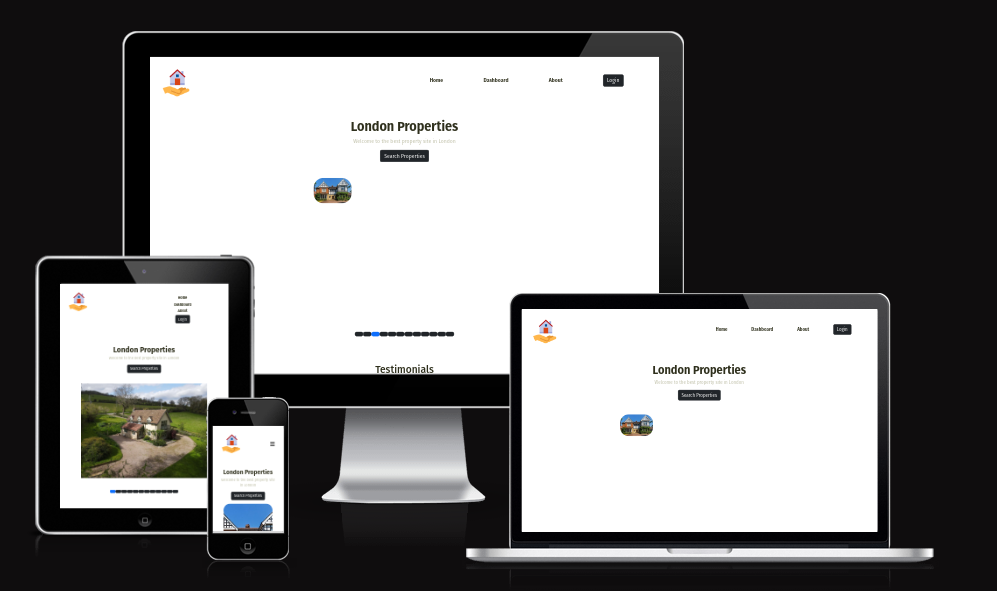
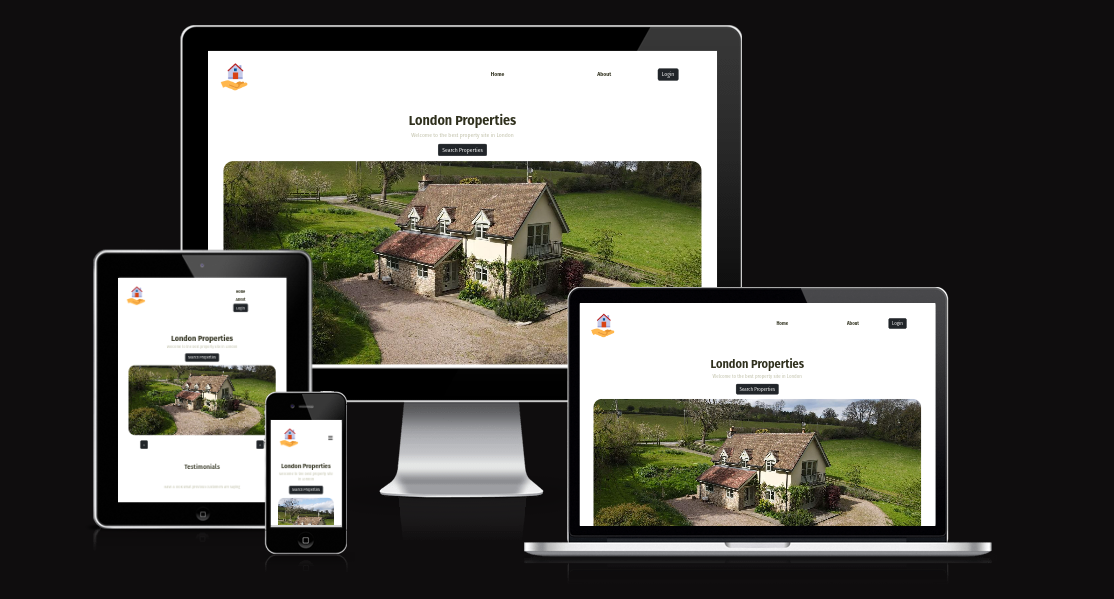
feat: replaced image of site

diff --git a/README.md b/README.md
@@ -13,7 +13,7 @@ This forms part of the front end for my fifth project with code institute.
 This application is used to give a nice look and feel for the properties that are being looked at.
 It will have a nicely displayed look and feel with a user Profile were everything can be displayed in one place.
 
-![display.png](src/assets/docs/display.png)
+![img.png](src/assets/docs/display.png)
 
 Live site [here](https://ci-pps-property-react-e3272eaff8d9.herokuapp.com/)
 
